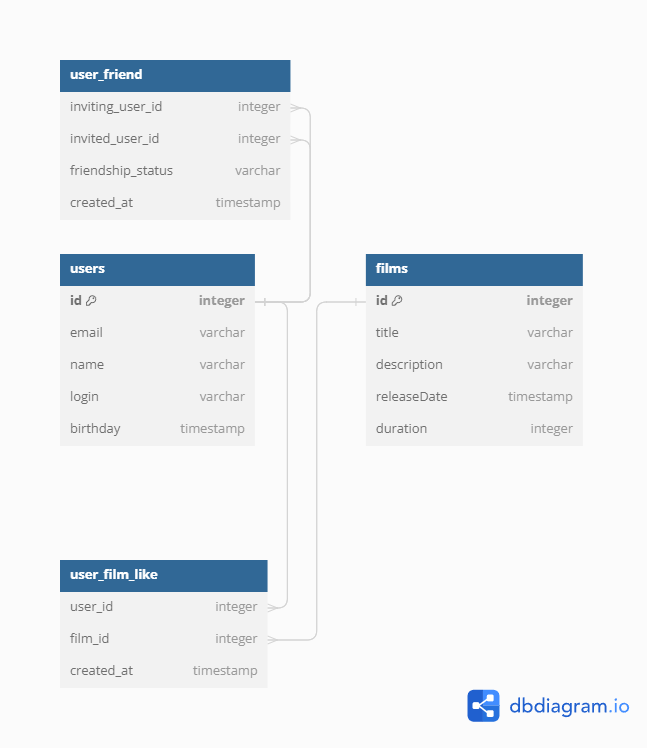
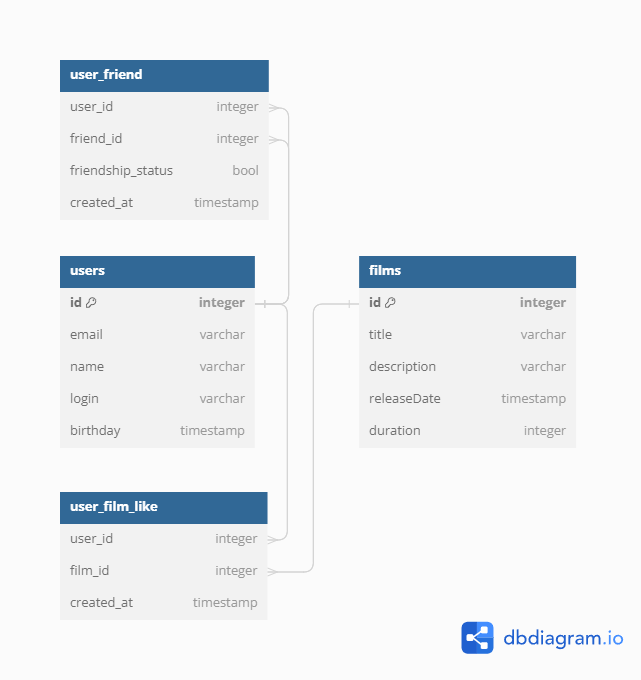
add: README sql query examples

diff --git a/README.md b/README.md
@@ -1,2 +1,22 @@
 # java-filmorate
-Template repository for Filmorate project.
+![sql schema.](src/main/resources/sprint_11_sql_table.png)
+В БД хранятся пользователи и фильмы. 
+Функционал:
+1. Можно показать список общих друзей пользователя с другим пользователем:
+   SELECT friend_id 
+   FROM user_friend 
+   WHERE user_id = 2 AND friendship_status = True AND friend_id IN (SELECT friend_id 
+   FROM user_friend 
+   WHERE user_id = 1 AND friendship_status = True);
+   
+2. Можно показать, кто поставил лайки фильму ('Matrix' для примера):
+   SELECT f.title, u.name FROM users AS u 
+   JOIN user_film_like AS l ON u.id = l.user_id 
+   JOIN films AS f ON l.film_id = f.id 
+   WHERE f.title LIKE 'Matrix';
+
+3. И каким фильмам пользователи (с именем 'Pavel') поставил лайк:
+   SELECT u.name, f.title FROM users AS u
+   JOIN user_film_like AS l ON u.id = l.user_id
+   JOIN films AS f ON l.film_id = f.id
+   WHERE u.name LIKE 'Pavel';
